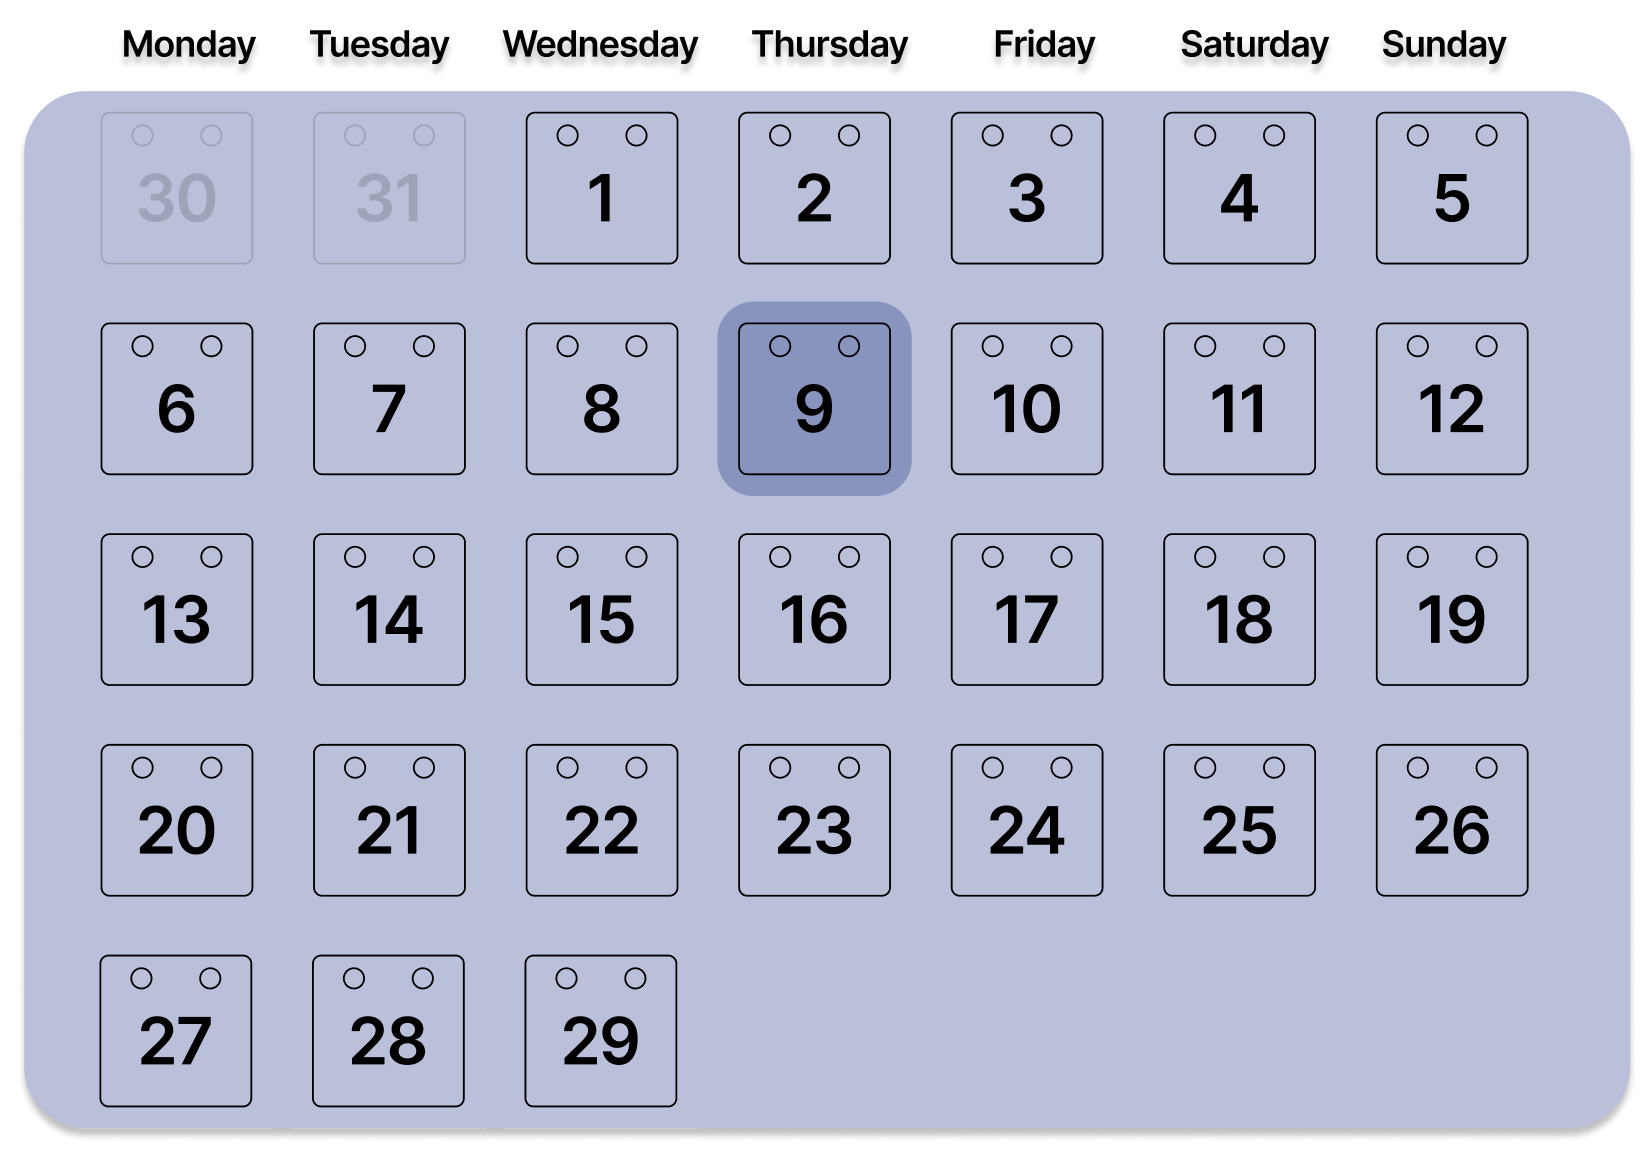
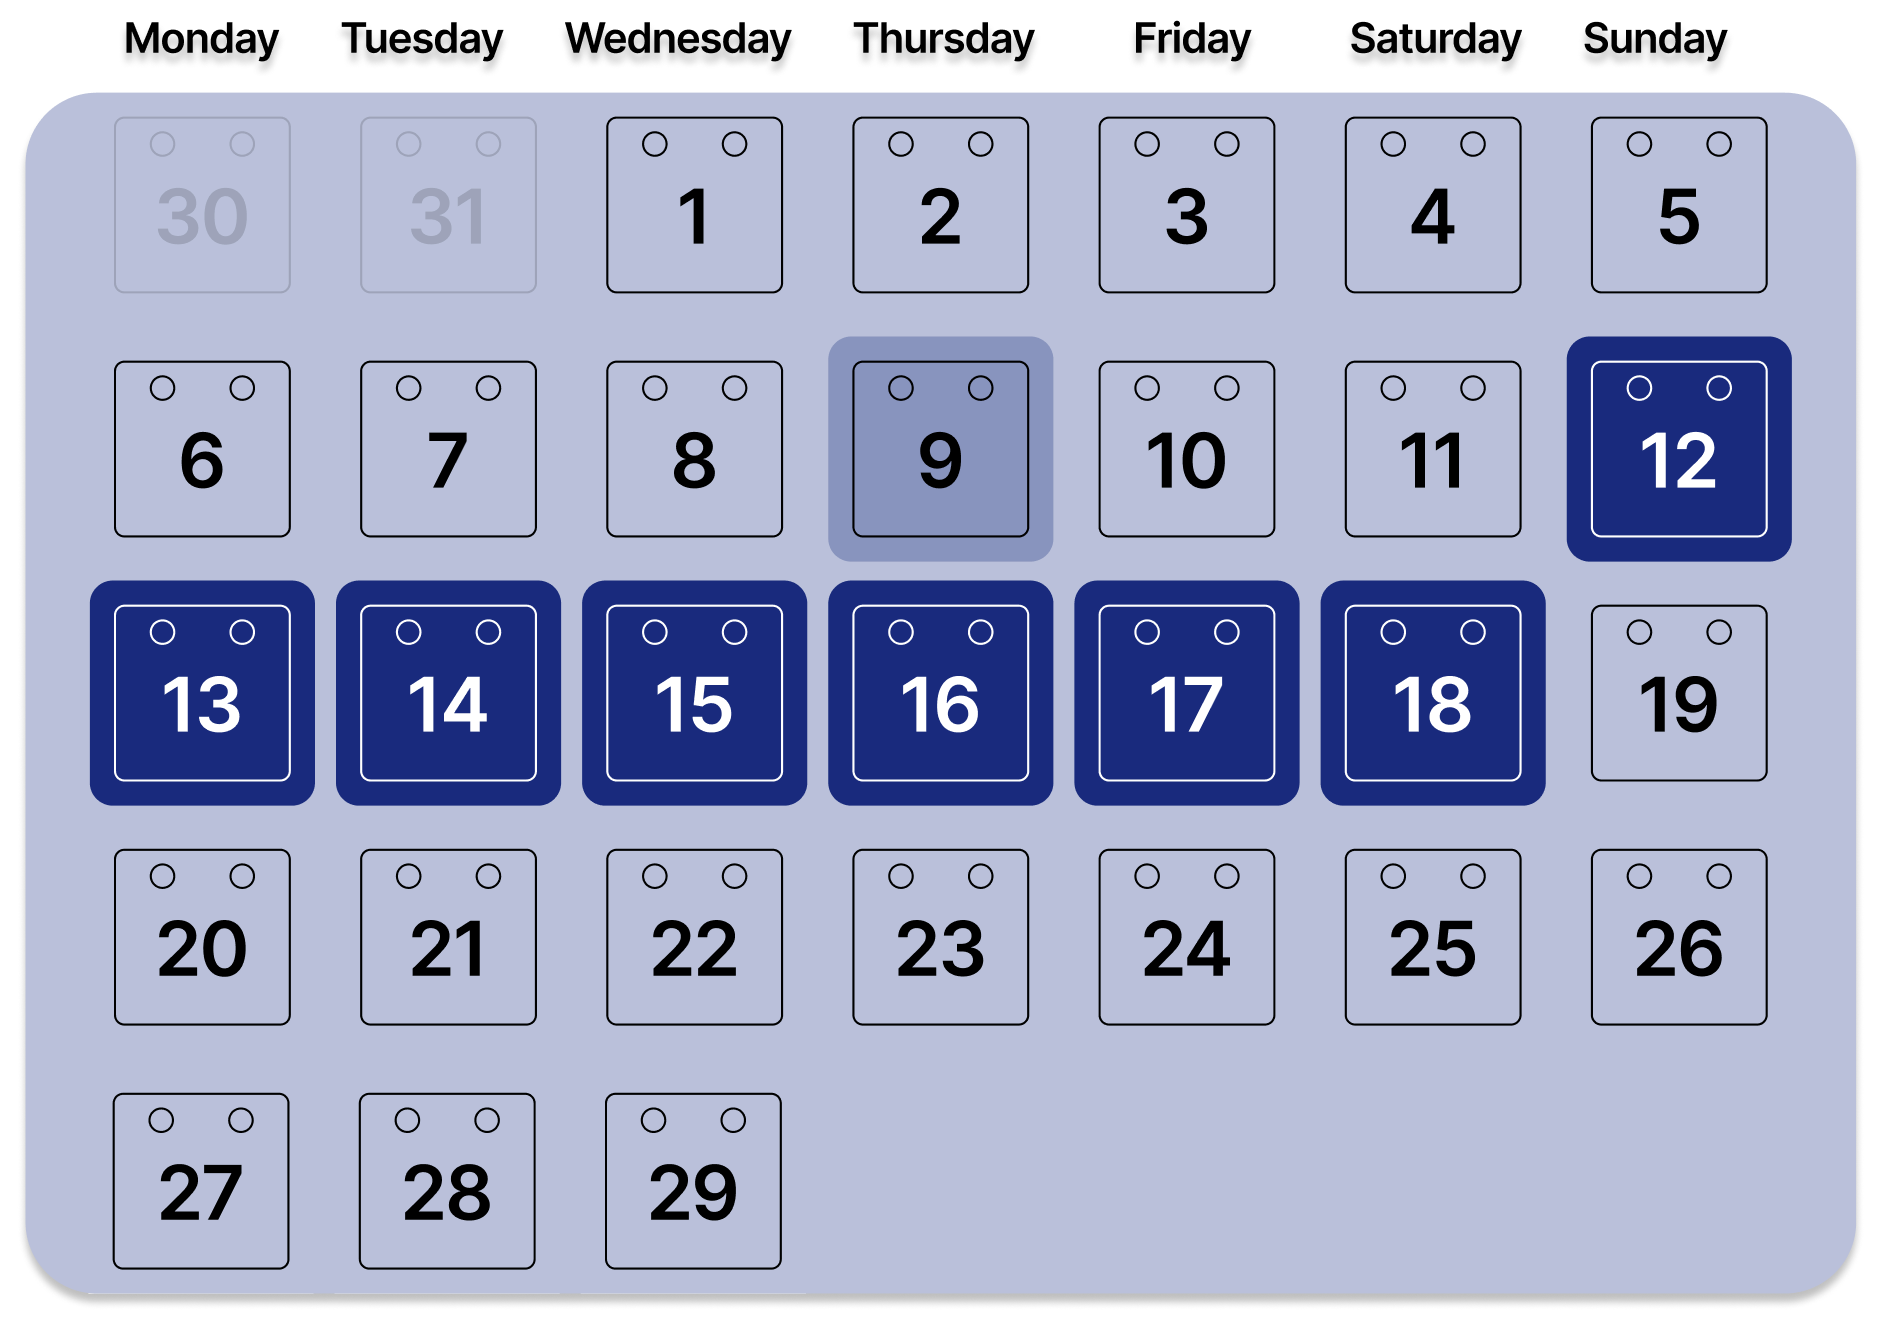
cleaning duty finished

diff --git a/cleaningduty.css b/cleaningduty.css
@@ -157,54 +157,87 @@
     margin-left: 35px;
   }
 
+  .duty{
+    margin-left: 10px;
+  }
+
   h3 {
     color: #000;
     font-family: Arial;
-    font-size: 24px;
+    font-size: 29px;
     font-style: normal;
     font-weight: 600;
     margin-left: 45px;
-    margin-top: 20px;
+    margin-top: 42px;
   }
 
+   .checkbox-list {
+    display: flex;
+    flex-direction: column;
+    font-size: 29px;
+    line-height: 0.7;
+    margin-left: 60px;
+}
+
+label {
+    display: flex;
+}
+
+input[type="checkbox"] {
+    margin-right: 35px;
+    transform: scale(2.5);
+    border: 2px solid #000;
+    
+}
+
+
+
   p {
-    margin-left: 45px;
-    line-height: 162.023%;
-    font-size: 20px;
+    margin-left: 110px;
+    margin-top: 30px;
+    line-height: 130%;
+    font-size: 26px;
+    width: 300px;
   }
 
 
   .rectangle {
-    width: 310px;
+    width: 350px;
     height: 220px;
     padding: 10px 20px;
     border-radius: 27px;
     background: #B8C1DC;
     box-shadow: 0px 4px 4px 0px rgba(0, 0, 0, 0.25);
-    margin-left: 390px;
-    margin-top: -200px;
+    margin-left: 370px;
+    margin-top: -220px;
     font-family: Arial;
     font-weight: 400;
     line-height: 0.001;
 
   }
 
-
   button{
     display: flex;
-    width: 300px;
-    font-size: 18px;
-    height: 45px;
+    width: 340px;
+    font-size: 22px;
+    height:50px;
     padding: 10px;
     justify-content: center;
-    gap: 10px;
     border-radius: 24px;
     background: #132B82;
     color: #fff;
-    margin-top: 0px;
-    margin-left: 10px;
+    margin-top: -7px;
+    margin-left: 395px;
   }
 
-  .miki{
-    align-items: center;
-  }
+
+  .skip-duty{
+    margin-left: 360px;
+    margin-top: -267px;
+    font-size: 24px;
+}
+
+.skip-info{
+  margin-left: 293px;
+  margin-top: -20px;
+}

diff --git a/cleaningduty.html b/cleaningduty.html
@@ -28,20 +28,47 @@
         
         <h1>November ></h1>
         <h2>2023</h2>
-        <div class="rectangle1"></div>
         <img src="Images/calendar.png" alt="Calendar" class="calendar">
-        <h3>Cleaning Duty &nbsp;&nbsp;Your Tasks</h3>
-         <p>Kitchen<br>Hallway<br>Common rooms<br>Main area</p> 
-         
+
+        <div class="duty">
+        <h3>Cleaning duty tasks:</h3>
+        </div>
+
         
-        <div class="rectangle">
-        <div class="miki">
+         <div class="checkbox-list">
+          <label>
+              <input type="checkbox" id="kitchenCheckbox">
+              Kitchen
+          </label>
+          <br>
+          <label>
+              <input type="checkbox" id="hallwayCheckbox">
+              Hallway
+          </label>
+          <br>
+          <label>
+              <input type="checkbox" id="commonRoomsCheckbox">
+              Common rooms
+          </label>
+          <br>
+          <label>
+              <input type="checkbox" id="mainAreaCheckbox">
+              Main area
+          </label>
+      </div>
+
+      
+        <div class="rectangle"></div>
+        <div class="skip-duty">
              <h3>Skip duty?</h3>
         </div>
-            <p>You can skip your dut if you cannot clean.You must pay <strong>200 DKK</strong> to skip your duty.</p>
+
+        <div class="skip-info">
+              <p>You can skip your duty if you want.You must pay <strong>200 DKK</strong> to skip your duty.</p>
+            </div>
+            
             <a href="#"><button>Skip your duty for 12-19 Nov ></button></a>
 
-    </div>
 
        
 </body>
